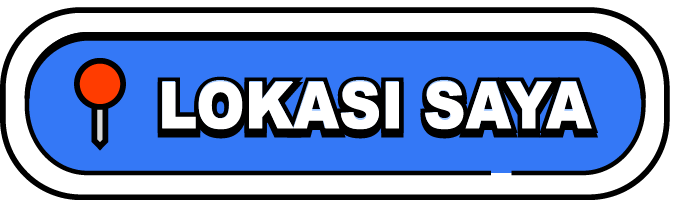
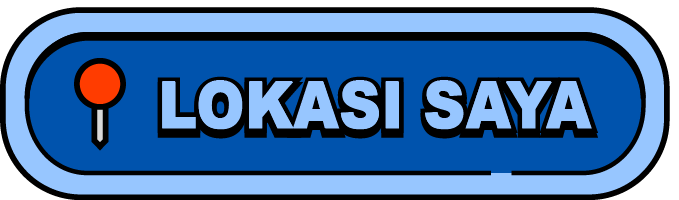
fix myloc placement

diff --git a/public/index.html b/public/index.html
@@ -29,6 +29,10 @@
         <button id="myGerobakBtn" class="image-btn" onclick="showMyPublicProfile()">
             <img id="imgBtnMyGerobak" src="image/btn-mygerobak.png" alt="Gerobak Saya">
         </button>
+
+        <button id="customerLocBtn" class="image-btn" onclick="enableCustomerLocation()">
+            <img id="imgMyLoc" src="image/btn-mylocation.png" alt="📍 Lokasi Saya">
+        </button>
         
         <button id="btnSearch" class="image-btn" onclick="openSearch()">
             <img id="imgBtnSearch" src="image/btn-search.png" alt="Cari Gerobak 🔎">
@@ -69,10 +73,6 @@
 
 <div id="mapContainer">
   <div id="map"></div>
-  
-  <button id="customerLocBtn" class="image-btn" onclick="enableCustomerLocation()">
-      <img id="imgMyLoc" src="image/btn-mylocation.png" alt="Lokasi Saya">
-  </button>
 </div>
 
 <div id="searchOverlay">
@@ -388,11 +388,9 @@ if (currentRole === 'customer') {
     
     document.getElementById("map").style.height = "calc(100vh)";
     document.getElementById("customerLocBtn").style.display = "block";
-    // Pastikan tombol dropdown bahasa muncul untuk customer
     document.getElementById("langDropdownContainer").style.display = "inline-block"; 
 } 
 else if (currentRole === 'vendor') {
-    // TAMBAHKAN BARIS INI: Sembunyikan dropdown bahasa untuk vendor
     document.getElementById("langDropdownContainer").style.display = "none";
     document.getElementById("customerLocBtn").style.display = "none";
 }

diff --git a/public/style.css b/public/style.css
@@ -236,20 +236,11 @@ h2#dNama {
 
 /* (LOKASI SAYA) */
 #customerLocBtn.image-btn img {
-    height: 37px;
+    height: 35px;
     width: auto;
     object-fit: contain;
     transition: transform 0.2s ease; }
 #customerLocBtn.image-btn:active img { transform: scale(0.92); }
-
-  #customerLocBtn {
-    position: fixed; 
-    bottom: 25px; 
-    right: 25px; 
-    z-index: 999;
-    width: auto; 
-    /* box-shadow: 0 4px 10px rgba(0,0,0,0.3); */
-  }
 
 /* (LANGUAGE) */
 #imgLangBtn {
